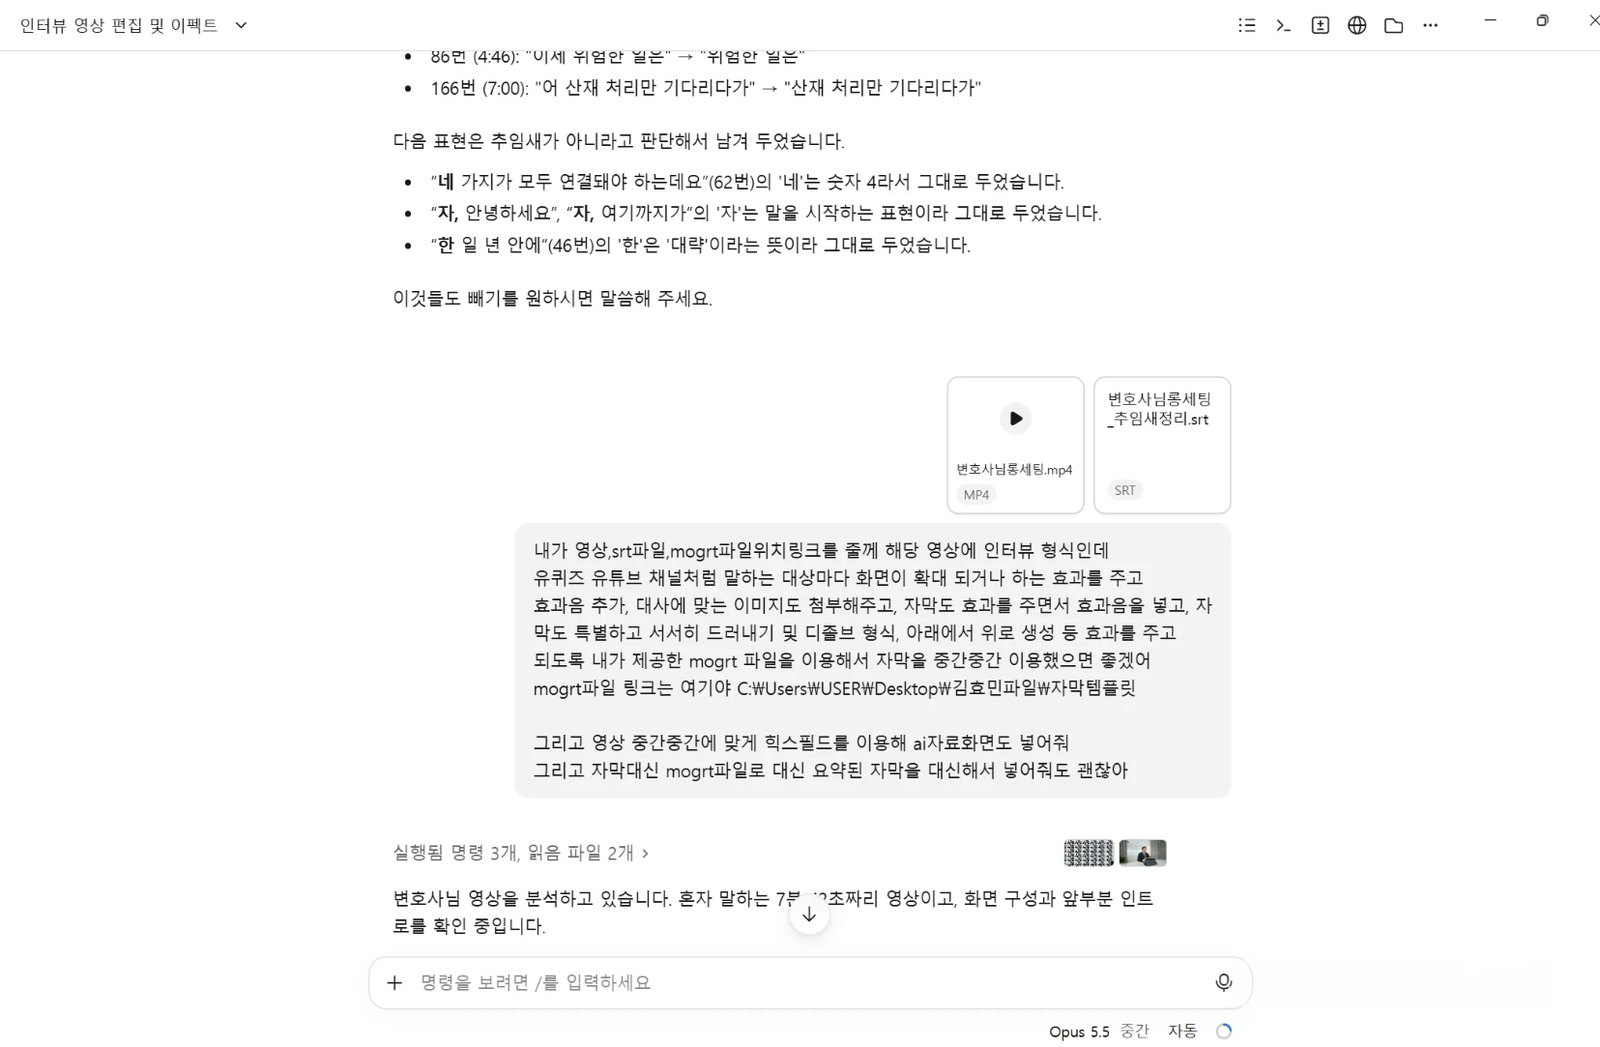
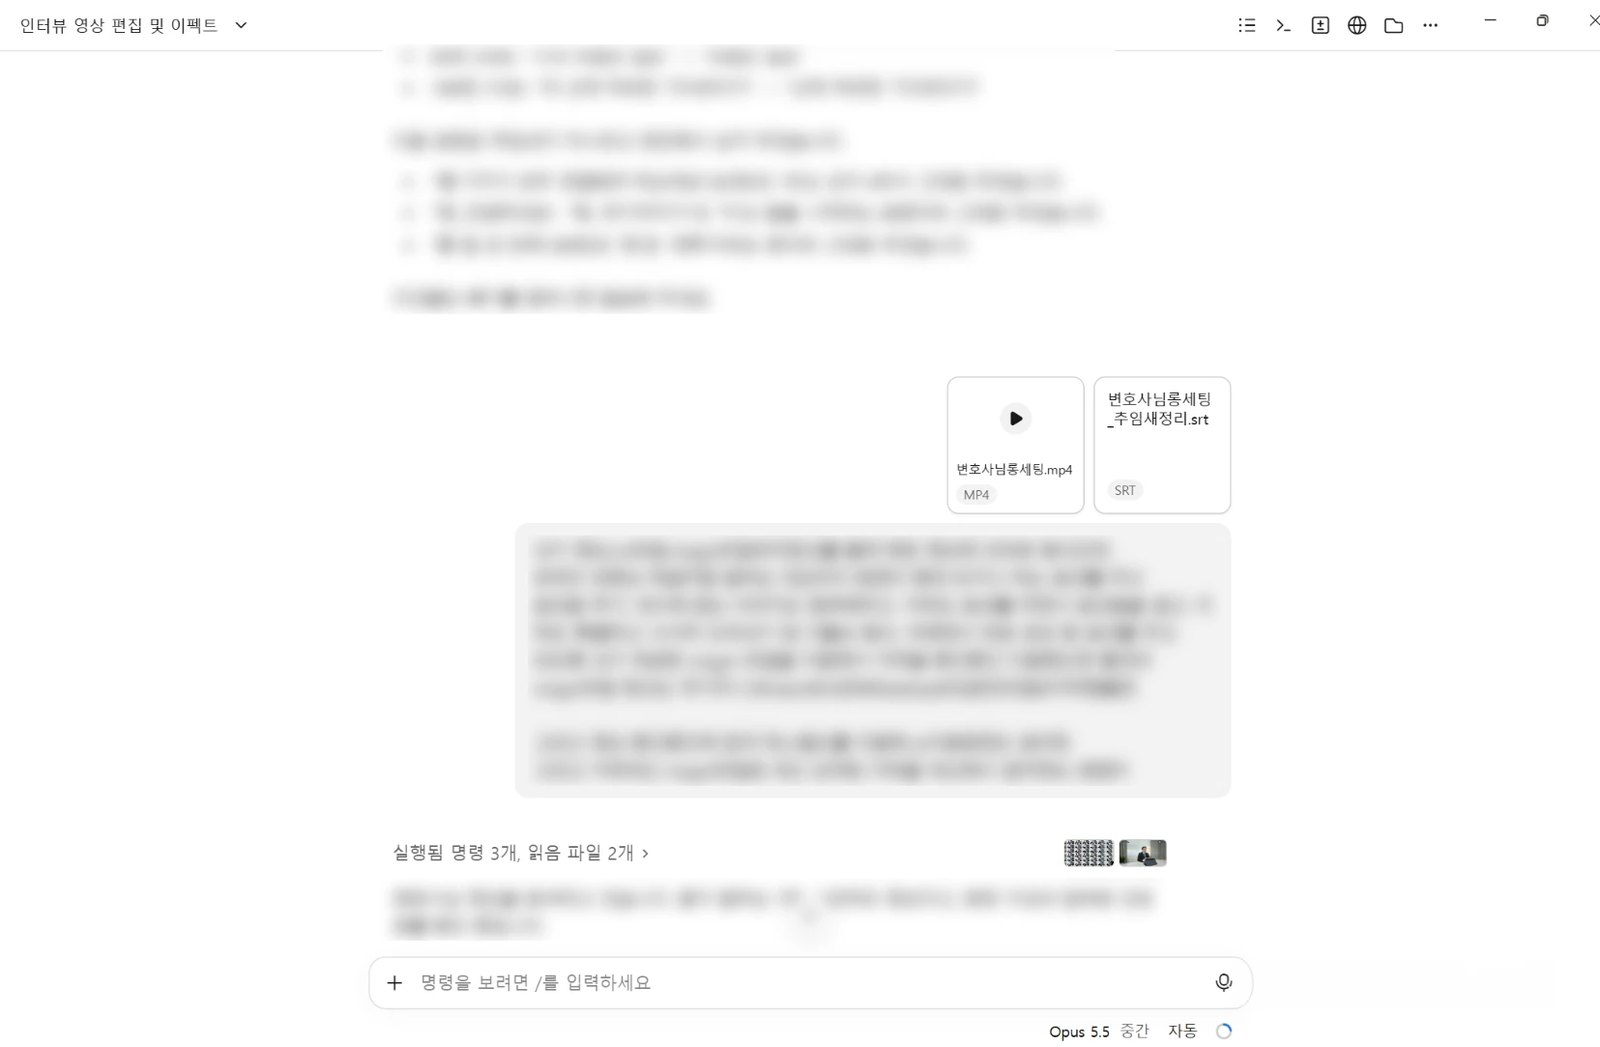
Use blurred AI Workflow screenshots

diff --git a/index.html b/index.html
@@ -14,7 +14,7 @@
   <link rel="preconnect" href="https://fonts.gstatic.com" crossorigin>
   <link href="https://fonts.googleapis.com/css2?family=Anton&family=Caveat:wght@600;700&family=JetBrains+Mono:wght@400;500&display=swap" rel="stylesheet">
   <link rel="stylesheet" href="https://cdn.jsdelivr.net/gh/orioncactus/pretendard@v1.3.9/dist/web/static/pretendard.min.css">
-  <link rel="stylesheet" href="css/style.css?v=20261123e">
+  <link rel="stylesheet" href="css/style.css?v=20261123f">
 </head>
 <body>
 
@@ -394,9 +394,9 @@
     </div>
   </div>
 
-  <script src="js/works.js?v=20261123e"></script>
-  <script src="js/capabilities.js?v=20261123e"></script>
-  <script src="js/extras.js?v=20261123e"></script>
-  <script src="js/main.js?v=20261123e"></script>
+  <script src="js/works.js?v=20261123f"></script>
+  <script src="js/capabilities.js?v=20261123f"></script>
+  <script src="js/extras.js?v=20261123f"></script>
+  <script src="js/main.js?v=20261123f"></script>
 </body>
 </html>

diff --git a/js/capabilities.js b/js/capabilities.js
@@ -36,10 +36,10 @@ window.CAP_IMAGES = {
     "assets/img/cap/04-5.jpg",   // 미디어데일리 홈페이지 운영
   ],
   "05": [   // AI Workflow
-    "assets/img/cap/05-1.jpg",   // Claude — 인터뷰 영상 편집 자동화
-    "assets/img/cap/05-2.jpg",   // SUNO — 광고 배경음악 생성
-    "assets/img/cap/05-3.jpg",   // Higgsfield — AI B-roll 영상 생성
-    "assets/img/cap/05-4.jpg",   // Vrew — 자막 작업
-    "assets/img/cap/05-5.jpg",   // ChatGPT — 인터뷰 장면 이미지 생성
+    "assets/img/cap/05-1.jpg?v=2",   // Claude — 인터뷰 영상 편집 자동화
+    "assets/img/cap/05-2.jpg?v=2",   // SUNO — 광고 배경음악 생성
+    "assets/img/cap/05-3.jpg?v=2",   // Higgsfield — AI B-roll 영상 생성
+    "assets/img/cap/05-4.jpg?v=2",   // Vrew — 자막 작업
+    "assets/img/cap/05-5.jpg?v=2",   // ChatGPT — 인터뷰 장면 이미지 생성
   ]
 };
